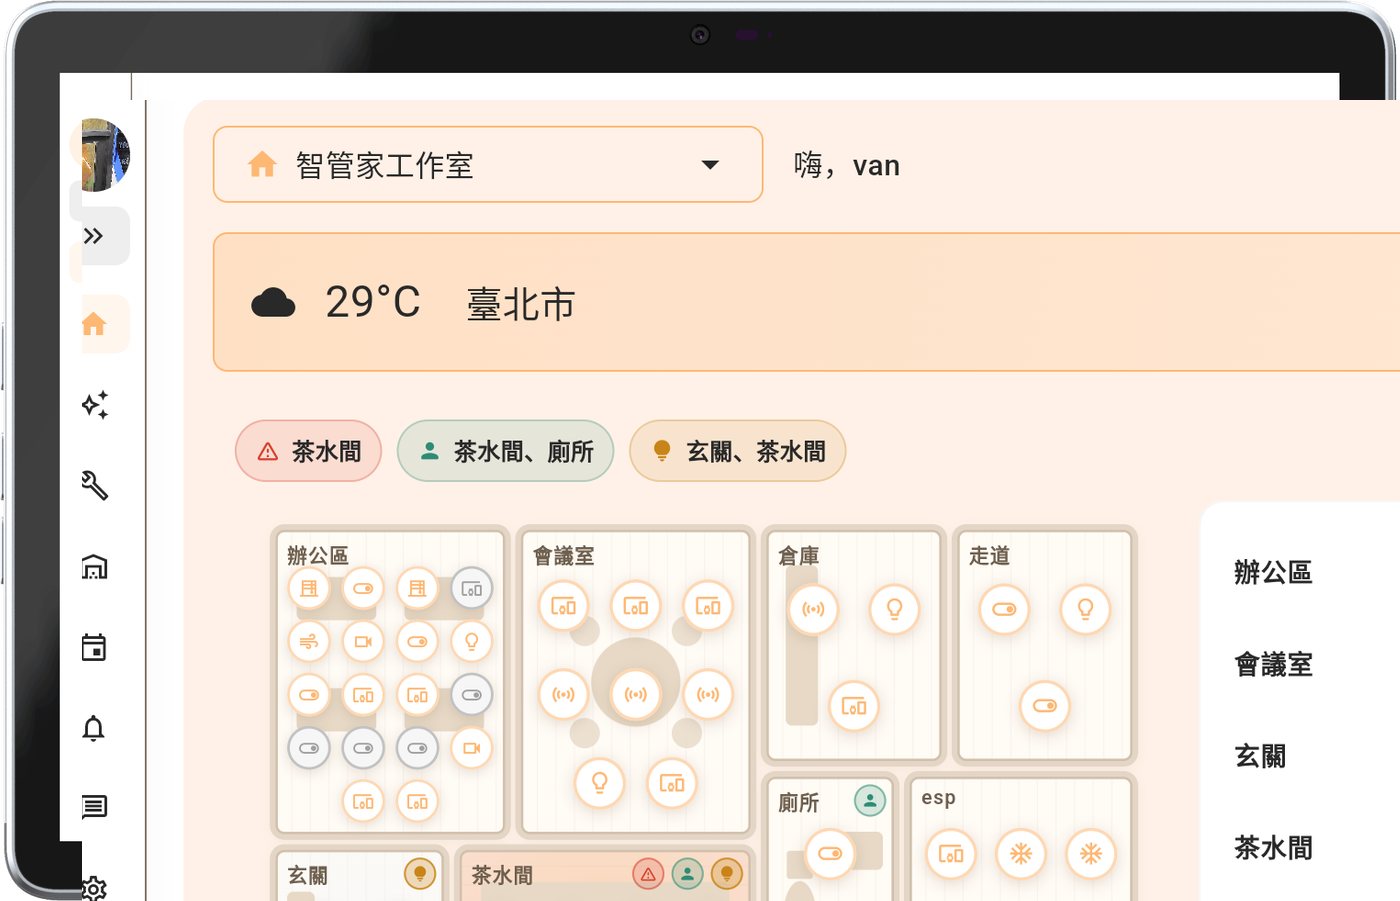
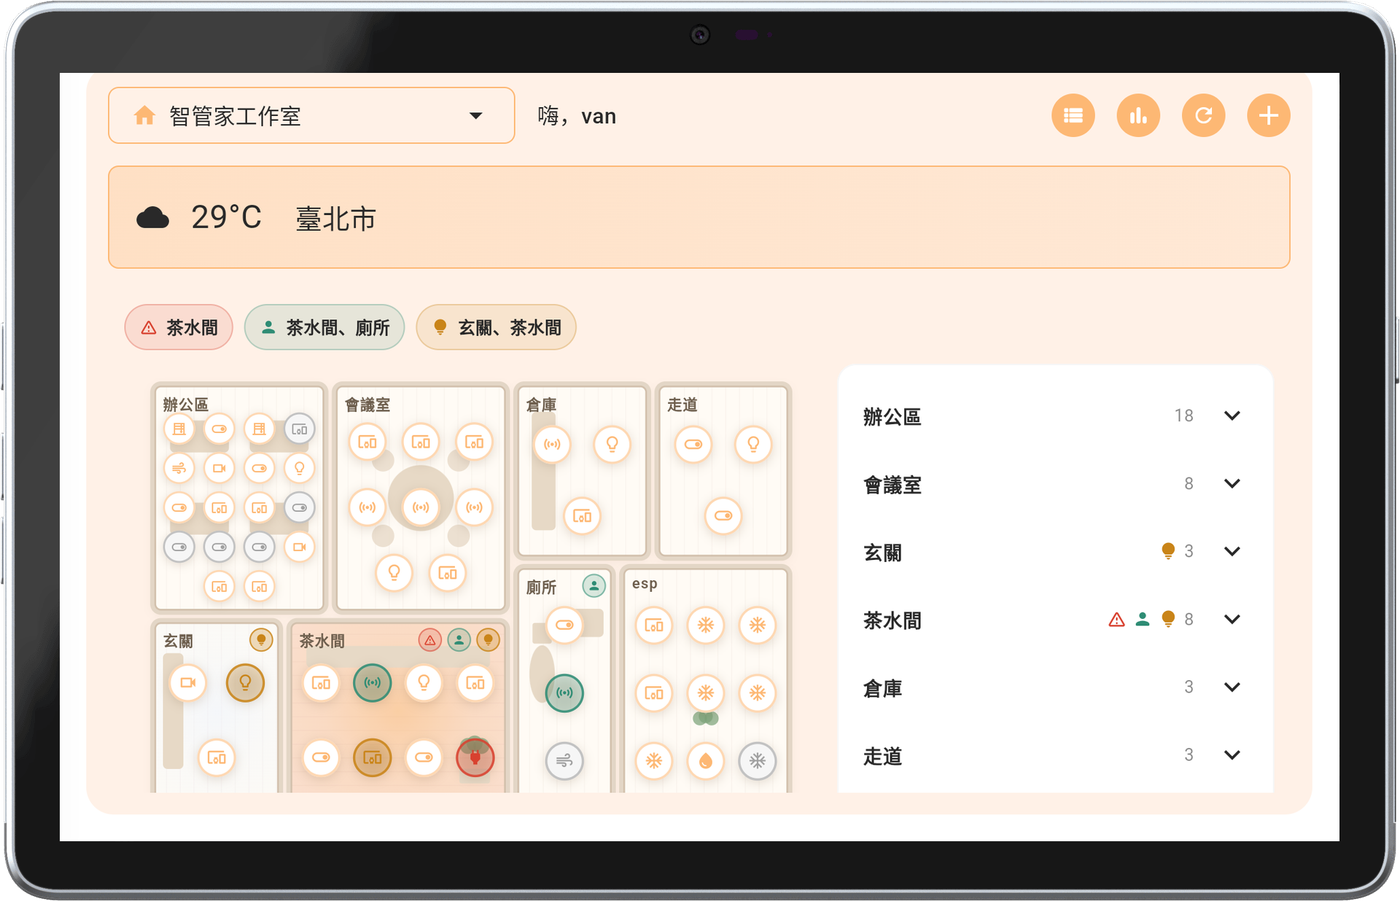
fix(design): 拿掉裁切手機圖、合成圖修正、去除第三方名稱、照片上標題改白字
Sean 2026-09-22 第二輪回饋：「配圖用得很差、不搭」「不該出現廠商名稱」「對比不清楚」。

- 手機圖全部移除：手上只有裁切過的 Android 上半截，任何框都不像手機。首頁主視覺只放
  平板；三種介面改為平板＋兩張同尺寸的商店徽章卡（App Store／Google Play）；產品頁
  interfaceImages.android 設 null。有完整手機截圖再放。
- 產品頁合成圖修正：03／05 -device 是 1400×901，前一次卻用 1920 版的面板座標貼圖，
  出現雙側欄。改為以 1920 首頁合成圖為底貼好再縮到 1400×901。
- 第三方名稱：倉儲截圖出現 medoly／雪碧等品名，網站不得出現廠商名稱→ 倉儲功能改純文字
  （首頁 bento 改為物品／櫃位／低庫存提醒三個標籤；產品頁 featureImages.inventory=null），
  05-warehouse 兩檔刪除。情境列表（模型屋、無品名、通用頭像）補進首頁 bento 作為圖格。
- 平面圖與公告截圖裁掉左側欄（員工大頭照）與狀態列（1885×1148）。
- 對比：案例詳情橫幅標題強制白字＋陰影；首頁照片標題陰影加深。

驗證：vitest 145/145、build 通過；dev 桌機／手機檢視，bento 四格、商店卡、合成圖、
案例標題 computed color rgb(255,255,255)。

diff --git a/src/views/index.vue b/src/views/index.vue
@@ -21,12 +21,6 @@
           <div class="hm-plate hm-plate-tablet" data-float>
             <img src="/images/screens/01-home-tablet.png" :alt="T.altTablet" width="2000" height="1200" loading="eager" fetchpriority="high" />
           </div>
-          <!-- The only phone capture is the top half of an Android home screen (1080×1130).
-               Shown at its true aspect in a frame that emerges from the section edge; a
-               tall frame with cover-fit turned it into "neither iPhone nor Android". -->
-          <div class="hm-phone hm-phone-hero">
-            <img src="/images/screens/07-home-phone.png" :alt="T.altPhone" width="1080" height="720" loading="eager" />
-          </div>
         </figure>
       </div>
     </section>
@@ -43,19 +37,19 @@
             <div class="hm-plate"><img src="/images/screens/01-home-tablet.png" :alt="T.altTablet" width="2000" height="1200" loading="lazy" /></div>
             <div class="hm-if-cap"><strong>{{ T.ifTablet }}</strong><span>{{ T.ifTabletCap }}</span></div>
           </div>
-          <!-- No iOS capture exists yet (WEB-002: never pass an Android screen off as iPhone),
-               so this column carries the store badge instead of a screen. -->
-          <div class="hm-if-item hm-if-ios">
+          <!-- No full-screen phone captures exist yet (only cropped Android shots, and WEB-002 forbids
+               passing an Android screen off as iPhone), so both phone columns carry the store badge. -->
+          <div class="hm-if-item hm-if-store">
             <a class="hm-store" href="https://apps.apple.com/app/id6680188565" target="_blank" rel="noopener" data-track="home:app-store">
               <img :src="locale.startsWith('zh') ? '/images/badges/app-store-zh-tw.svg' : '/images/badges/app-store-en.svg'" alt="Download on the App Store" width="120" height="40" loading="lazy" />
             </a>
             <div class="hm-if-cap"><strong>iPhone / iPad</strong><span>{{ T.ifIosCap }}</span></div>
           </div>
-          <div class="hm-if-item">
-            <div class="hm-phone-well">
-              <div class="hm-phone"><img src="/images/screens/07-home-phone.png" :alt="T.altPhone" width="1080" height="720" loading="lazy" /></div>
-            </div>
-            <div class="hm-if-cap"><strong>{{ T.ifAndroid }}</strong><span>{{ T.ifAndroidCap }}</span><a class="hm-store hm-store-inline" href="https://play.google.com/store/apps/details?id=tw.smtengo.engohome.android" target="_blank" rel="noopener" data-track="home:google-play"><img src="/images/badges/google-play-en.png" alt="Get it on Google Play" height="40" loading="lazy" /></a></div>
+          <div class="hm-if-item hm-if-store">
+            <a class="hm-store hm-store-google" href="https://play.google.com/store/apps/details?id=tw.smtengo.engohome.android" target="_blank" rel="noopener" data-track="home:google-play">
+              <img src="/images/badges/google-play-en.png" alt="Get it on Google Play" height="40" loading="lazy" />
+            </a>
+            <div class="hm-if-cap"><strong>{{ T.ifAndroid }}</strong><span>{{ T.ifAndroidCap }}</span></div>
           </div>
         </div>
         <p class="hm-if-note" data-reveal>{{ T.ifNote }}</p>
@@ -81,15 +75,13 @@
             <span class="hm-voice-quote">{{ T.capVoiceQuote }}</span>
             <div class="hm-cell-cap"><strong>{{ T.capVoice }}</strong><span>{{ T.capVoiceSub }}</span></div>
           </div>
-          <router-link to="/tutorial#howto-warehouse" class="hm-cell hm-cell-img">
-            <img src="/images/screens/05-warehouse-tablet.png" :alt="T.capWarehouse" width="2000" height="1152" loading="lazy" />
+          <router-link to="/tutorial#howto-warehouse" class="hm-cell hm-cell-text">
+            <div class="hm-cell-chips" aria-hidden="true"><span v-for="c in T.capWarehouseChips" :key="c">{{ c }}</span></div>
             <div class="hm-cell-cap"><strong>{{ T.capWarehouse }}</strong><span>{{ T.capWarehouseSub }}</span></div>
           </router-link>
-          <router-link to="/tutorial#howto-scene" class="hm-cell hm-cell-scenes hm-cell-wide">
-            <div class="hm-scenes-copy"><strong>{{ T.capScenes }}</strong><span>{{ T.capScenesSub }}</span></div>
-            <div class="hm-scenes-chips" aria-hidden="true">
-              <span v-for="(c, i) in T.capSceneChips" :key="c" :class="{ on: i === 2 }">{{ c }}</span>
-            </div>
+          <router-link to="/tutorial#howto-scene" class="hm-cell hm-cell-img hm-cell-wide">
+            <img src="/images/screens/10-scenes-tablet.png" :alt="T.capScenes" width="2000" height="1200" loading="lazy" />
+            <div class="hm-cell-cap"><strong>{{ T.capScenes }}</strong><span>{{ T.capScenesSub }}</span></div>
           </router-link>
         </div>
       </div>
@@ -206,6 +198,7 @@ const COPY: Record<string, Record<string, any>> = {
     capFloorplan: '平面圖即時視圖', capFloorplanSub: '每個房間的裝置狀態，畫在您家的平面圖上。',
     capVoice: '語音操作', capVoiceSub: '牆掛平板專屬。涉及安全的裝置會先向您確認。', capVoiceQuote: '「開客廳燈」',
     capWarehouse: '智慧倉儲管理', capWarehouseSub: '濾芯、電池、備品放哪裡、剩多少。',
+    capWarehouseChips: ['物品', '櫃位', '低庫存提醒'],
     capScenes: '情境（一鍵模式）', capScenesSub: '「離家」等於關全部燈加關空調。手動一鍵執行，或依時間、感測器狀態自動觸發。',
     capSceneChips: ['回家模式', '離家模式', '睡眠模式', '晨曦喚醒'],
     bmsTitle: '一棟大樓，一個大腦。', bmsSub: '住戶不必為了看公告另外裝一支 App。社區服務與家裡的裝置在同一個 App 與同一台平板裡。',
@@ -225,6 +218,7 @@ const COPY: Record<string, Record<string, any>> = {
     capFloorplan: '平面图实时视图', capFloorplanSub: '每个房间的设备状态，画在您家的平面图上。',
     capVoice: '语音操作', capVoiceSub: '壁挂平板专属。涉及安全的设备会先向您确认。', capVoiceQuote: '「开客厅灯」',
     capWarehouse: '智慧仓储管理', capWarehouseSub: '滤芯、电池、备品放哪里、剩多少。',
+    capWarehouseChips: ['物品', '柜位', '低库存提醒'],
     capScenes: '情境（一键模式）', capScenesSub: '「离家」等于关全部灯加关空调。手动一键执行，或依时间、传感器状态自动触发。',
     capSceneChips: ['回家模式', '离家模式', '睡眠模式', '晨曦唤醒'],
     bmsTitle: '一栋大楼，一个大脑。', bmsSub: '住户不必为了看公告另外装一个 App。社区服务与家里的设备在同一个 App 与同一台平板里。',
@@ -244,6 +238,7 @@ const COPY: Record<string, Record<string, any>> = {
     capFloorplan: 'Live floor plan', capFloorplanSub: 'Every room\'s device status, drawn on your own floor plan.',
     capVoice: 'Voice control', capVoiceSub: 'Wall tablet only. Safety-related devices ask for confirmation first.', capVoiceQuote: '"Living room lights on"',
     capWarehouse: 'Smart inventory', capWarehouseSub: 'Where the filters, batteries and spares are, and how many are left.',
+    capWarehouseChips: ['Items', 'Cabinets', 'Low-stock alerts'],
     capScenes: 'Scenes (one tap)', capScenesSub: '"Away" means all lights off and AC off. Run it by tap, or trigger it by time or sensor state.',
     capSceneChips: ['Home', 'Away', 'Sleep', 'Sunrise'],
     bmsTitle: 'One brain. Every building.', bmsSub: 'Residents do not need a second app for notices. Community services live in the same app and tablet as the home.',
@@ -299,18 +294,12 @@ $navy-2: $grey-blue2;
 .hm-plate-tall img { aspect-ratio: 4 / 5; object-fit: cover; object-position: top; }
 .hm-plate-land img { aspect-ratio: 2000 / 1148; object-fit: cover; object-position: top; }
 
-// Phone frame open at the bottom: the capture is the top of the screen, so the frame
-// is cut by its container instead of the image being zoomed to fill a tall frame.
-.hm-phone {
-  background: $navy; border-radius: 34px 34px 0 0; padding: 12px 12px 0; box-shadow: 0 24px 60px rgba($navy, .25); overflow: hidden;
-  img { display: block; width: 100%; height: auto; border-radius: 24px 24px 0 0; }
-}
-.hm-phone-well { height: 300px; overflow: hidden; display: flex; align-items: flex-end; padding: 0 12%; position: relative;
-  &::after { content: ''; position: absolute; left: 0; right: 0; bottom: 0; height: 40px; background: linear-gradient(180deg, rgba($warm-bg-section, 0), $warm-bg-section); pointer-events: none; }
-}
 .hm-store { display: inline-block; line-height: 0; img { height: 40px; width: auto; } }
-.hm-store-inline { margin-top: 10px; img { height: 56px; margin: -8px -12px; } }
-.hm-if-ios { justify-content: flex-end; .hm-store { padding-bottom: 8px; } }
+.hm-store-google img { height: 58px; margin: -9px -12px; }
+.hm-if-store {
+  justify-content: flex-end; padding: 22px; border-radius: 20px; background: rgba($navy, .04); border: 1px solid #D8DFE8;
+  .hm-store { align-self: flex-start; padding-bottom: 6px; }
+}
 
 // ─── hero ────────────────────────────────────────────────────────
 .hm-hero { position: relative; overflow: hidden; padding: clamp(72px, 9vh, 104px) 0 clamp(40px, 6vw, 72px); }
@@ -336,10 +325,9 @@ $navy-2: $grey-blue2;
 .hm-cta-row { display: flex; gap: 12px; flex-wrap: wrap; margin-top: 6px; animation: hmRise .7s cubic-bezier(.22,1,.36,1) .6s both; }
 
 .hm-hero-figure {
-  position: relative; margin: 0; min-height: 440px; animation: hmReveal 1s cubic-bezier(.22,1,.36,1) .4s both;
-  .hm-plate-tablet { position: absolute; right: 0; top: 10px; width: 92%; }
-  .hm-phone-hero { position: absolute; left: 0; bottom: -12px; width: 32%; }
-  @media (max-width: 900px) { min-height: 0; padding-top: 24px; .hm-plate-tablet { position: relative; width: 100%; top: 0; } .hm-phone-hero { display: none; } margin-bottom: 30px; }
+  position: relative; margin: 0; animation: hmReveal 1s cubic-bezier(.22,1,.36,1) .4s both;
+  .hm-plate-tablet { width: 100%; }
+  @media (max-width: 900px) { padding-top: 24px; margin-bottom: 30px; }
 }
 
 // ─── interfaces ──────────────────────────────────────────────────
@@ -370,16 +358,10 @@ a.hm-cell-img:hover img { transform: scale(1.03); }
   background: linear-gradient(180deg, rgba($navy, 0) 0%, rgba($navy, .92) 60%);
   strong { font-size: 1.2rem; } span { font-size: .9rem; color: rgba($warm-bg-light, .8); line-height: 1.5; }
 }
+.hm-cell-text { flex-direction: column; justify-content: space-between; padding: 24px 24px 0; .hm-cell-cap { margin: 0 -24px; padding-top: 12px; background: none; } }
+.hm-cell-chips { display: flex; flex-wrap: wrap; gap: 8px; span { border: 1.5px solid rgba($warm-bg-light, .5); border-radius: 999px; padding: 7px 14px; font-size: .85rem; font-weight: 700; color: $warm-bg-light; } }
 .hm-cell-voice { flex-direction: column; justify-content: space-between; padding: 24px 24px 0; .hm-cell-cap { margin: 0 -24px; padding-top: 12px; background: none; } }
 .hm-voice-quote { font-family: 'Noto Serif TC', serif; font-weight: 700; color: $gold; font-size: clamp(2rem, 3.2vw, 3.1rem); line-height: 1.05; }
-.hm-cell-scenes {
-  background: $warm-bg-section; color: $navy; padding: 26px 28px; display: grid; grid-template-columns: 1fr 1fr; gap: 20px; align-items: center;
-  @media (max-width: 900px) { grid-template-columns: 1fr; }
-}
-.hm-scenes-copy { display: flex; flex-direction: column; gap: 8px; strong { font-size: 1.25rem; } span { font-size: .95rem; line-height: 1.65; color: #555; } }
-.hm-scenes-chips { display: flex; flex-wrap: wrap; gap: 10px; justify-content: flex-end; @media (max-width: 900px) { justify-content: flex-start; }
-  span { border: 1.5px solid $navy; border-radius: 999px; padding: 9px 16px; font-size: .92rem; font-weight: 700; &.on { background: $brand-orange; border-color: $brand-orange; color: #fff; } }
-}
 
 // ─── HMS × BMS ───────────────────────────────────────────────────
 .hm-bms { padding: clamp(56px, 8vw, 96px) 0; }
@@ -397,7 +379,7 @@ a.hm-cell-img:hover img { transform: scale(1.03); }
 }
 .hm-photo-cap {
   position: absolute; left: 0; right: 0; bottom: 0; padding: 18px 20px; display: flex; flex-direction: column; gap: 2px; color: #fff;
-  strong, span { color: #fff; }
+  strong, span { color: #fff; text-shadow: 0 1px 10px rgba(0, 0, 0, .55); }
   background: linear-gradient(180deg, rgba($navy, 0) 0%, rgba($navy, .9) 100%);
   strong { font-family: 'Noto Serif TC', serif; font-size: 1.15rem; line-height: 1.3; } span { font-size: .78rem; letter-spacing: .1em; opacity: .85; }
 }

diff --git a/src/views/product.vue b/src/views/product.vue
@@ -1051,11 +1051,12 @@ export default defineComponent({
       voice: null,
       floorplan: '/images/screens/03-floorplan-tablet-device.png',
       photowall: null,
-      inventory: '/images/screens/05-warehouse-tablet-device.png'
+      // 2026-09-22: the only inventory capture shows third-party product names — text-only until a clean capture exists.
+      inventory: null
     }
     const interfaceImages: Record<'ios' | 'android', string | null> = {
       ios: null,
-      android: '/images/screens/07-home-phone.png'
+      android: null   // only a cropped Android shot exists; the store badges carry the platforms
     }
     const router = useRouter()
     const hasHeader = ref(true)

diff --git a/src/utils/designTells.test.ts b/src/utils/designTells.test.ts
@@ -66,7 +66,8 @@ describe('page templates carry no template tells', () => {
     it('home shows the real product screens and links every primary action to a route', () => {
         const t = templateOf('index.vue')
         expect(t).toContain('/images/screens/01-home-tablet.png')
-        expect(t).toContain('/images/screens/07-home-phone.png')
+        expect(t).toContain('/images/screens/10-scenes-tablet.png')
+        expect(t).not.toMatch(/07-home-phone|hm-phone/)
         expect(t).toContain('to="/contact"')
         expect(t).toContain('to="/product"')
         expect(t).toContain('to="/cases"')

diff --git a/src/views/CaseDetail.vue b/src/views/CaseDetail.vue
@@ -247,6 +247,8 @@ onMounted(() => {
         }
 
         .title {
+          color: #fff !important; text-shadow: 0 2px 14px rgba(0, 0, 0, .6);
+
           font-family: 'Noto Serif TC', serif;
           font-weight: 900;
           font-size: clamp(2rem, 5vw, 3.2rem);
